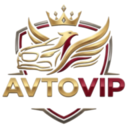
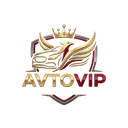
Add files via upload

diff --git a/assets/css/app.css b/assets/css/app.css
@@ -652,3 +652,37 @@ html.modal-open,html.modal-open body{overscroll-behavior:none!important}
     border-radius:0!important;
   }
 }
+
+/* AvtoVIP brand sizing: home header + auth only */
+body[data-page="home"] .site-header .brand{
+  flex:0 0 50px!important;
+  min-width:50px!important;
+  max-width:50px!important;
+}
+body[data-page="home"] .site-header .brand img{
+  width:50px!important;
+  height:50px!important;
+  flex:0 0 50px!important;
+  object-fit:contain!important;
+}
+body[data-page="auth"] .auth-logo{
+  width:176px!important;
+  height:70px!important;
+  object-fit:contain!important;
+}
+@media(max-width:480px){
+  body[data-page="home"] .site-header .brand{
+    flex-basis:48px!important;
+    min-width:48px!important;
+    max-width:48px!important;
+  }
+  body[data-page="home"] .site-header .brand img{
+    width:48px!important;
+    height:48px!important;
+    flex-basis:48px!important;
+  }
+  body[data-page="auth"] .auth-logo{
+    width:168px!important;
+    height:66px!important;
+  }
+}

diff --git a/service-worker.js b/service-worker.js
@@ -1,4 +1,4 @@
-const CACHE='avtovip-v52-20260917-story-compact-final';
+const CACHE='avtovip-v53-20260918-brand-logo-fix';
 const CORE=['./','index.html','assets/css/app.css?v=44','assets/css/patch11.css?v=34','assets/css/ui-pro.css?v=39','assets/js/supabase.js','assets/js/international.js','assets/js/app.js?v=42','assets/js/social.js?v=31','assets/js/patch11.js?v=20','assets/js/ui-pro.js?v=24','assets/img/brand/icon-192.png'];
 self.addEventListener('install',e=>e.waitUntil(caches.open(CACHE).then(c=>c.addAll(CORE).catch(()=>{})).then(()=>self.skipWaiting())));
 self.addEventListener('activate',e=>e.waitUntil(caches.keys().then(keys=>Promise.all(keys.filter(k=>k!==CACHE).map(k=>caches.delete(k)))).then(()=>self.clients.claim())));
